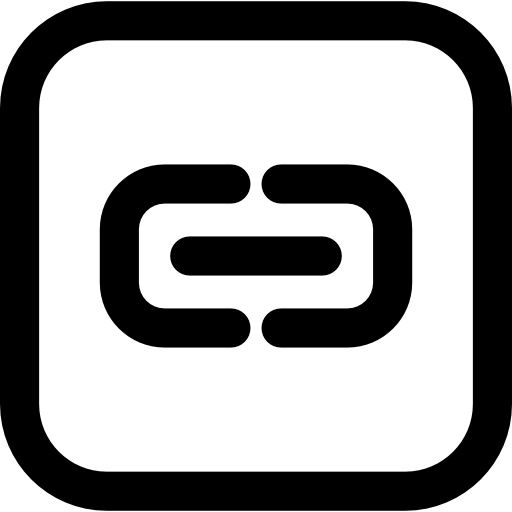
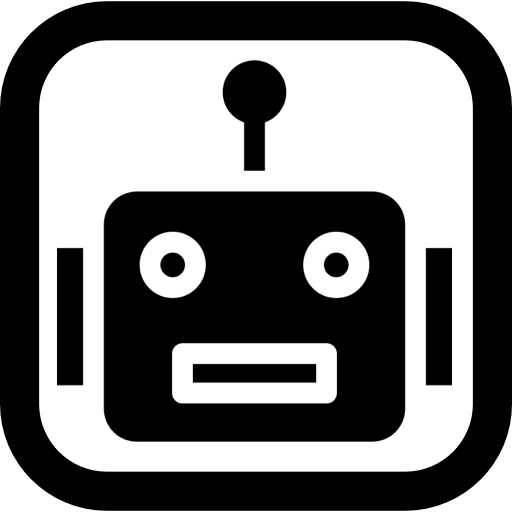
ai mode button

Changed region(s): [[0.0938, 0.0938, 0.9062, 0.875]]

diff --git a/Buttons/ConcreteButtons/AIButton.py b/Buttons/ConcreteButtons/AIButton.py
@@ -4,30 +4,30 @@ from VisibleElements.Tooltip import Tooltip
 from SingletonState.ReferenceFrame import PointRef
 import Utility, pygame
 
-# Button on panel to select odom mode
-class OdomButton(ToggleButton):
+# Button on panel to select edit mode
+class AIButton(ToggleButton):
 
     def __init__(self, state: SoftwareState):
         self.softwareState = state
-        self.tooltip = Tooltip("Test robot odometry by displaying the VEX", "robot's real-time position through serial")
+        self.tooltip = Tooltip("Use AI algorithms to iteratively generate a full spline path from scratch")
 
-        position = (Utility.SCREEN_SIZE + 240, 30)
-        super().__init__(position, "Images/Buttons/odom.png", 0.08)
+        position = (Utility.SCREEN_SIZE + 20, 30)
+        super().__init__(position, "Images/Buttons/ai.png", 0.08, "Images/Buttons/ai_greyscale.png")
 
-    # Odombutton only ever has one tooltip message to draw
+    # EditButton only ever has one tooltip message to draw
     def drawTooltip(self, screen: pygame.Surface, mousePosition: PointRef) -> None:
         self.tooltip.draw(screen, mousePosition)
 
     # Implementing ToggleButton function
-    # button is active when the software mode is set to ODOM
+    # button is active when the software mode is set to AI
     def isToggled(self) ->  bool:
-        return self.softwareState.mode == Mode.ODOM
+        return self.softwareState.mode == Mode.AI
 
-    # odom button is never disabled
+    # edit button is never disabled
     def isDisabled(self) -> bool:
         return False
 
     # Implementing ToggleButton function
-    # When toggled on, set mode to odom
+    # When toggled on, set mode to ai
     def toggleButtonOn(self):
-        self.softwareState.mode = Mode.ODOM
+        self.softwareState.mode = Mode.AI

diff --git a/Buttons/ToggleButton.py b/Buttons/ToggleButton.py
@@ -11,11 +11,16 @@ imageC -> toggled on
 """
 class ToggleButton(AbstactButton, TooltipOwner):
 
-    def __init__(self, position: tuple, imageName: str, imageScale: float = 1):
+    def __init__(self, position: tuple, imageName: str, imageScale: float = 1, optionalDisabledImageName: str = None):
         
         self.imageC = Graphics.getImage(imageName, imageScale)
         self.imageB = Graphics.getLighterImage(self.imageC, 0.66)
-        self.imageA = Graphics.getLighterImage(self.imageC, 0.33)
+
+        if optionalDisabledImageName is None:
+            self.imageA = Graphics.getLighterImage(self.imageC, 0.33)
+        else: 
+            disabledImage = Graphics.getImage(optionalDisabledImageName, imageScale)
+            self.imageA = Graphics.getLighterImage(disabledImage, 0.33)
 
         super().__init__(position, self.imageC.get_width(), self.imageC.get_height())
 

diff --git a/SingletonState/SoftwareState.py b/SingletonState/SoftwareState.py
@@ -7,10 +7,11 @@ from MouseInterfaces.Draggable import Draggable
 """ A class representing global state of the software."""
 
 class Mode(Enum):
-    EDIT = 1 # Modfying the path
-    SIMULATE = 2 # Simulating the path with some path following algorithm with a virtual robot
-    ROBOT = 3 # Configure path following parameters and export to robot; import recorded run to program
-    ODOM = 4 # Real-time view of the robot's position through odometry from serial
+    AI = 1 # Automatic path generation with MCTS
+    EDIT = 2 # Modfying the path
+    SIMULATE = 3 # Simulating the path with some path following algorithm with a virtual robot
+    ROBOT = 4 # Configure path following parameters and export to robot; import recorded run to program
+    ODOM = 5 # Real-time view of the robot's position through odometry from serial
 
 class SoftwareState:
 

diff --git a/Buttons/ConcreteButtons/SimulateButton.py b/Buttons/ConcreteButtons/SimulateButton.py
@@ -14,8 +14,8 @@ class SimulateButton(ToggleButton):
         self.tooltipEnabled = Tooltip("Tune parameters for path following on the virtual", "robot, and simulate path following algorithms")
         self.tooltipDisabled = Tooltip("Disabled: Draw a path first in Edit mode", "before trying to simulate path following!")
 
-        position = (Utility.SCREEN_SIZE + 90, 30)
-        super().__init__(position, "Images/Buttons/simulate.png", 0.1)
+        position = (Utility.SCREEN_SIZE + 130, 30)
+        super().__init__(position, "Images/Buttons/simulate.png", 0.08)
 
     # If there are at least two waypoints, then we can switch to this mode. Otherwise, we display an error tooltip
     def drawTooltip(self, screen: pygame.Surface, mousePosition: PointRef) -> None:

diff --git a/Buttons/ConcreteButtons/RobotButton.py b/Buttons/ConcreteButtons/RobotButton.py
@@ -15,8 +15,8 @@ class RobotButton(ToggleButton):
         self.tooltipEnabled = Tooltip("Export the path to the VEX robot and import a", "recorded run to the program through serial")
         self.tooltipDisabled = Tooltip("Disabled: Draw a path first in Edit mode", "before interfacing with the robot!")
 
-        position = (Utility.SCREEN_SIZE + 160, 30)
-        super().__init__(position, "Images/Buttons/robot.png", 0.1)
+        position = (Utility.SCREEN_SIZE + 185, 30)
+        super().__init__(position, "Images/Buttons/robot.png", 0.08)
 
     # If there are at least two waypoints, then we can switch to this mode. Otherwise, we display an error tooltip
     def drawTooltip(self, screen: pygame.Surface, mousePosition: PointRef) -> None:

diff --git a/Buttons/ButtonCollection.py b/Buttons/ButtonCollection.py
@@ -1,4 +1,4 @@
-from Buttons.ConcreteButtons import EditButton, OdomButton, RobotButton, SimulateButton
+from Buttons.ConcreteButtons import AIButton, EditButton, OdomButton, RobotButton, SimulateButton
 from Buttons.AbstractButton import AbstactButton
 from SingletonState.SoftwareState import SoftwareState
 from Simulation.Waypoints import Waypoints
@@ -13,6 +13,7 @@ class Buttons:
     def __init__(self, state: SoftwareState, waypoints: Waypoints):
         self.buttons: AbstactButton = [
             
+            AIButton.AIButton(state),
             EditButton.EditButton(state),
             SimulateButton.SimulateButton(state, waypoints),
             RobotButton.RobotButton(state, waypoints),

diff --git a/Buttons/ConcreteButtons/EditButton.py b/Buttons/ConcreteButtons/EditButton.py
@@ -11,8 +11,8 @@ class EditButton(ToggleButton):
         self.softwareState = state
         self.tooltip = Tooltip("Edit path")
 
-        position = (Utility.SCREEN_SIZE + 20, 30)
-        super().__init__(position, "Images/Buttons/edit.png", 0.1)
+        position = (Utility.SCREEN_SIZE + 75, 30)
+        super().__init__(position, "Images/Buttons/edit.png", 0.08)
 
     # EditButton only ever has one tooltip message to draw
     def drawTooltip(self, screen: pygame.Surface, mousePosition: PointRef) -> None:

diff --git a/VisibleElements/Tooltip.py b/VisibleElements/Tooltip.py
@@ -45,7 +45,7 @@ class Tooltip:
     # Draw the tooltip approximately where the mouse position is
     def draw(self, screen: pygame.Surface, mousePosition: tuple):
 
-        Y_SEPARATION_FROM_MOUSE: int = 5
+        Y_SEPARATION_FROM_MOUSE: int = -45
         
         # Calculate tooltip position, preventing tooltip from going above or left of screen
         x = max(0, int(mousePosition[0] - self.tooltip.get_width()/2))

diff --git a/Simulation/Simulation.py b/Simulation/Simulation.py
@@ -78,6 +78,7 @@ class Simulation:
         # TODO draw a robot at the specified position
         # Use some sort of decent looking vector robot image
         # Note that RobotModelOutput stores a pointref, so just call screenRef to draw it relative to screen
+        # Robot should be oriented based on robotPose.heading
         pass
 
     # Draw everything, but only if there is a simulation to draw

diff --git a/Graphics.py b/Graphics.py
@@ -1,4 +1,4 @@
-import pygame, math, Utility, colors
+import pygame, math, Utility, colors, numpy
 
 FONT20 = pygame.font.SysFont('Corbel', 20)
 FONT30 = pygame.font.SysFont('Corbel', 30)
@@ -28,6 +28,7 @@ def getLighterImage(image: pygame.Surface, lightenPercent: float) -> pygame.Surf
     newImage.set_alpha(lightenPercent * 255)
 
     return newImage
+
 
 
 # align = 0 -> align left/top

diff --git a/main.py b/main.py
@@ -92,7 +92,7 @@ def drawEverything(screen: pygame.Surface, state: SoftwareState, fieldSurface: F
     pygame.display.update()
 
 
-import cProfile
-import re
-cProfile.run('main()')
-#main()
+#import cProfile
+#import re
+#cProfile.run('main()')
+main()
